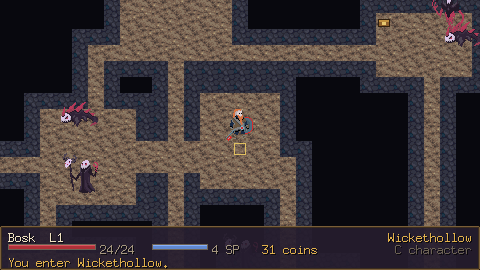
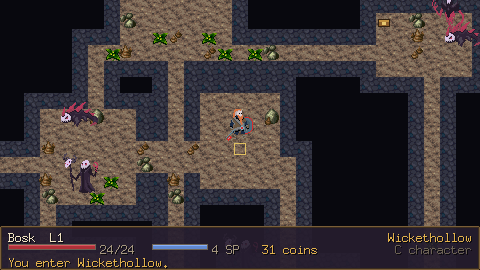
Clutter indoors: pots in houses, stalagmites in caves
The same scatter mechanism as the overworld, with the sets chosen by
tile and by what kind of place it is — a stone floor means "cottage" in
a village and "cave" under a mountain, and only the location knows
which. Seeded from the location rather than the world, so two buildings
generated from the same layout are furnished differently.

Cells with something standing on them are skipped, along with the way
in, so clutter never hides a chest, a merchant, or the exit.

diff --git a/internal/game/decor.go b/internal/game/decor.go
@@ -147,3 +147,106 @@ func (g *Game) drawDecor(dst *ebiten.Image, cam render.Camera, x0, y0, x1, y1 in
 		}
 	}
 }
+
+// --- interiors -----------------------------------------------------------
+
+// Interior scatter. The same idea as the overworld, with two differences: the
+// sets are chosen by tile and by what kind of place this is, since a stone
+// floor means "cottage" in a village and "cave" under a mountain; and anything
+// standing on a cell is skipped, so clutter never hides a chest or a merchant.
+var (
+	// Household clutter: pots, sacks, bread, books, bottles. Row 0 of the
+	// cozy furnishings sheet, skipping the blank first cell.
+	houseProps = decorSet{
+		Sheet:  "prop/cozy16",
+		Frames: []int{1, 2, 3, 4, 5, 6, 7, 8, 9, 10, 11, 12, 13, 14, 15, 16, 17, 18, 19, 20},
+		Chance: 0.30,
+	}
+	// Cave floors: moss, loose rock, stalagmites.
+	caveProps = decorSet{
+		Sheet:  "prop/cave16",
+		Frames: []int{0, 1, 2, 3, 4},
+		Chance: 0.14,
+	}
+	// Whatever grows in a town's open ground.
+	yardProps = decorSet{
+		Sheet:  "prop/summer16",
+		Frames: []int{4, 6, 7, 8, 24, 25},
+		Chance: 0.07,
+	}
+	// A swept street stays mostly swept.
+	streetProps = decorSet{
+		Sheet:  "prop/summer16",
+		Frames: []int{18, 19},
+		Chance: 0.02,
+	}
+)
+
+// localDecorFor returns the scatter rules for an interior cell.
+func localDecorFor(t world.LocalTile, settlement bool) []decorSet {
+	switch t {
+	case world.LFloor:
+		// The same tile is a cottage floor in a village and a cave floor under
+		// a mountain; only the location knows which.
+		if settlement {
+			return []decorSet{houseProps}
+		}
+		return []decorSet{caveProps}
+	case world.LGrass:
+		return []decorSet{yardProps}
+	case world.LCobble:
+		return []decorSet{streetProps}
+	}
+	return nil
+}
+
+// drawLocalDecor scatters clutter through the current interior.
+func (g *Game) drawLocalDecor(dst *ebiten.Image, cam render.Camera, x0, y0, x1, y1 int) {
+	if g.Local == nil {
+		return
+	}
+	l := g.Local
+	settlement := l.POI.Kind.Settlement()
+	ox, oy := cam.Offset()
+	const ts = assetsys.TileSize
+
+	// An interior's seed keeps its clutter stable across visits, and distinct
+	// from every other building generated from the same tile layout.
+	seed := l.POI.Seed
+
+	for ty := y0; ty <= y1+2; ty++ {
+		for tx := x0 - 1; tx <= x1+1; tx++ {
+			sets := localDecorFor(l.At(tx, ty), settlement)
+			if len(sets) == 0 {
+				continue
+			}
+			// Never clutter a cell something stands on, or the way in.
+			if l.EntityAt(tx, ty) != nil || (tx == l.Entry.X && ty == l.Entry.Y) {
+				continue
+			}
+			for i, ds := range sets {
+				salt := uint32(i)*0x9e37 + 0x2f1d
+				if unitHash(tx, ty, seed, salt) >= ds.Chance {
+					continue
+				}
+				sp := g.Assets.Get(ds.Sheet)
+				if sp.Count() == 0 {
+					continue
+				}
+				pick := ds.Frames[int(decorHash(tx, ty, seed, salt+1))%len(ds.Frames)]
+				img := sp.Frame(pick)
+				if img == nil {
+					continue
+				}
+				jx := unitHash(tx, ty, seed, salt+2)*4 - 2
+				w, h := float64(sp.W), float64(sp.H)
+				op := &ebiten.DrawImageOptions{}
+				op.GeoM.Translate(
+					float64(tx*ts)+ts/2-w/2+jx+ox,
+					float64(ty*ts)+ts-h+oy,
+				)
+				dst.DrawImage(img, op)
+			}
+		}
+	}
+}

diff --git a/cmd/assetpipe/manifest.go b/cmd/assetpipe/manifest.go
@@ -167,6 +167,12 @@ func buildManifest() error {
 	add("prop/desert16", filepath.Join(rawRoot, "manaseedpixelarttilesetcollection",
 		"23.03a - Desert Sands", "packaged", "desert sheets", "desert 16x16.png"), 16, 16)
 
+	// Interior clutter.
+	add("prop/cozy16", filepath.Join(rawRoot, "manaseedpixelarttilesetcollection",
+		"19.04b - Cozy Furnishings", "packaged", "cozy furnishings 16x16.png"), 16, 16)
+	add("prop/cave16", filepath.Join(rawRoot, "manaseedpixelarttilesetcollection",
+		"19.10a - Muddy Cave", "packaged", "muddy cave sheets", "muddy cave 16x16 v1.png"), 16, 16)
+
 	// Icons. Two pixel-art sets at 32px — loot and runes — which is exactly UI
 	// scale, plus the painted ability set for weapons, where 128px divides
 	// cleanly by four. Loot filenames carry the thing they depict

diff --git a/internal/game/scene_local.go b/internal/game/scene_local.go
@@ -271,6 +271,9 @@ func (s *localScene) Draw(g *Game, dst *ebiten.Image) {
 		}
 	}
 
+	// Clutter sits between the floor and anything standing on it.
+	g.drawLocalDecor(dst, s.cam, x0, y0, x1, y1)
+
 	// Entities, then the player, so the player draws over doorways.
 	for _, e := range l.Entities {
 		if e.Used && e.Kind != world.EExit {

diff --git a/docs/PLAN.md b/docs/PLAN.md
@@ -61,7 +61,7 @@ Built and running:
 - Asset pipeline: inventory, selective extraction, manifest generation, and an
   audit that reports which art keys still fall back to placeholders
 
-Deliberately not built yet: curated interior art, and decor inside locations.
+Deliberately not built yet: quests, and a balance pass over the invented numbers.
 
 ## Architecture, and why
 
@@ -88,9 +88,9 @@ testable and a simulation harness is cheap to add later.
 
 ### Phase 1 — make it feel like a game *(save/load and audio done)*
 
-1. **Decor inside locations.** Interiors autotile but are still bare: no
-   furniture in a house, no rubble in a dungeon. The interior packs are
-   extracted and unused.
+1. **Balance.** The formulas are ported from the original, but every monster
+   stat, weapon strike and price was invented and never checked against the
+   others. Simulate fights against the pure rules package and fix the gaps.
 
 ### Phase 2 — depth
 

diff --git a/README.md b/README.md
@@ -75,7 +75,8 @@ Requires Go 1.25+. The art lives outside the repo; see **Assets** below.
   the bag, the shop and the battle menu. Reduced to 16px in the pipeline rather
   than scaled at draw time, because the engine samples nearest-neighbour and a
   128px painted icon squeezed into a 16px box keeps every eighth pixel.
-- **Scenery** — trees, boulders, ferns, reeds and cacti scattered over the
+- **Scenery** — trees, boulders, ferns, reeds and cacti outdoors; pots, sacks
+  and books in houses; moss and stalagmites underground. All scattered over the
   terrain that suits them, placed from a hash of position and world seed so a
   wood looks the same every time you walk back into it without a byte of it
   being stored.
